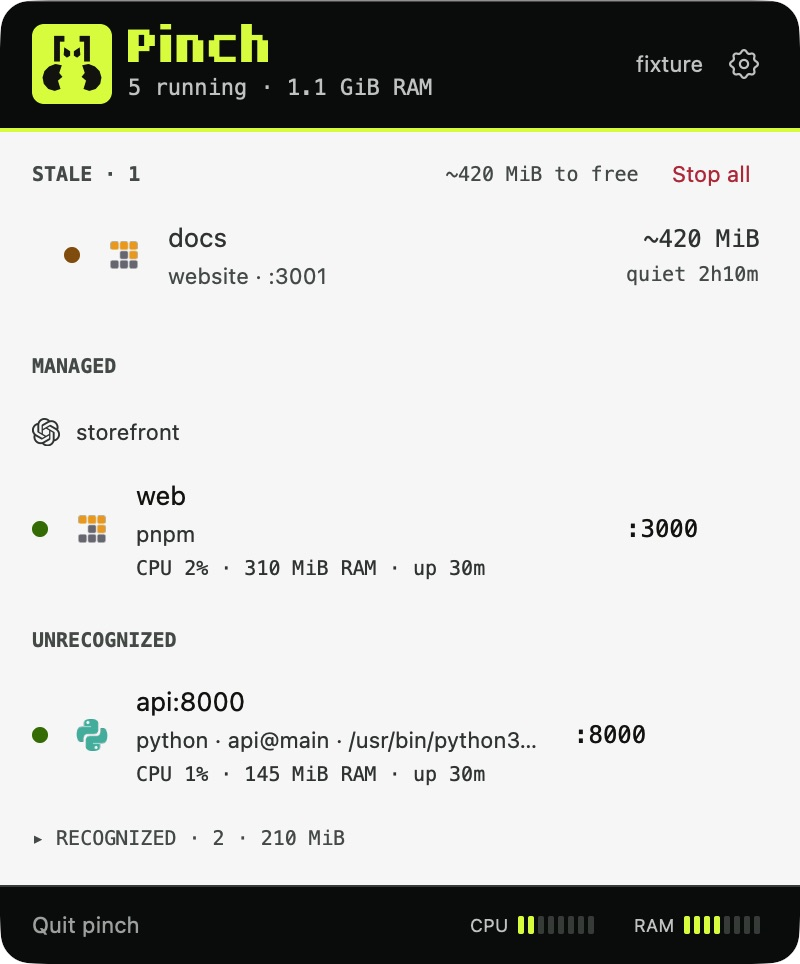
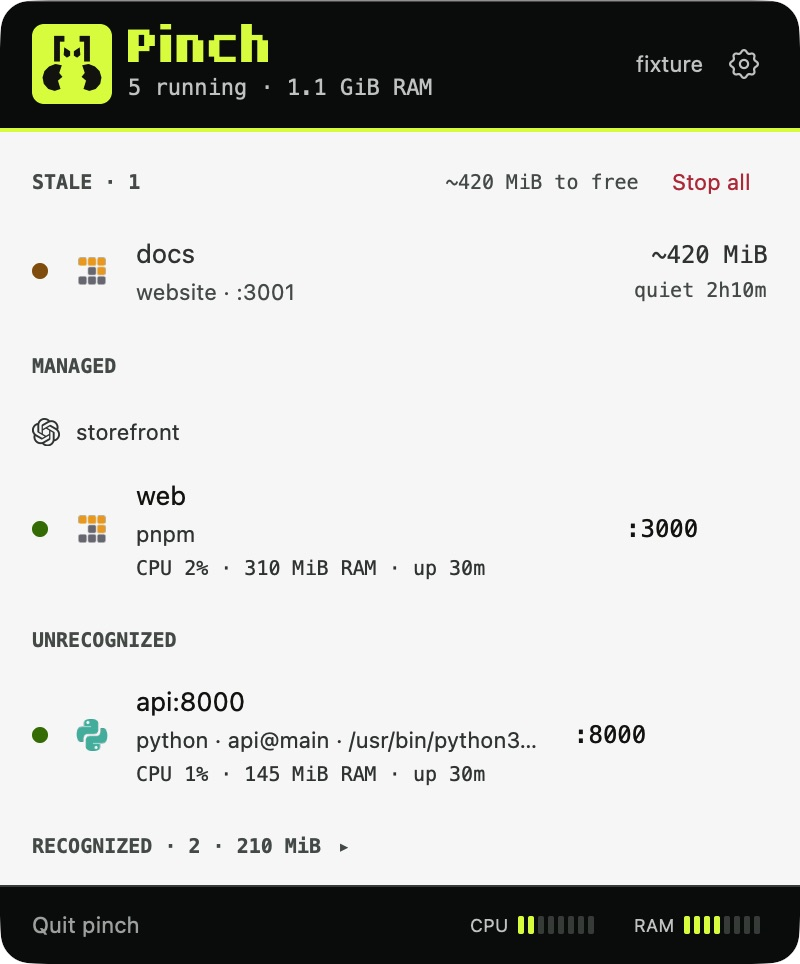
fix: align process groups consistently

diff --git a/crates/ui/src/view.rs b/crates/ui/src/view.rs
@@ -567,6 +567,8 @@ impl Popover {
             .then(|| format!("~{} to free", bytes(list.stale_ram())));
         let stop = div()
             .id("stop-stale")
+            .font_family(".SystemUIFont")
+            .font_weight(FontWeight::NORMAL)
             .px_2()
             .py_1()
             .rounded_md()
@@ -583,28 +585,18 @@ impl Popover {
                     }))
             });
         div()
-            .mt_2()
-            .mb_2()
             .child(
-                div()
-                    .px_4()
+                section_label(format!("STALE · {}", list.stale.len()), theme)
                     .flex()
                     .items_center()
                     .gap_2()
-                    .child(
-                        div()
-                            .flex_1()
-                            .font_family(MONO)
-                            .text_size(px(10.0))
-                            .font_weight(FontWeight::SEMIBOLD)
-                            .text_color(theme.faint)
-                            .child(format!("STALE · {}", list.stale.len())),
-                    )
+                    .child(div().flex_1())
                     .when_some(summary, |header, summary| {
                         header.child(
                             div()
                                 .font_family(MONO)
                                 .text_size(px(10.0))
+                                .font_weight(FontWeight::NORMAL)
                                 .text_color(theme.faint)
                                 .child(summary),
                         )
@@ -634,8 +626,7 @@ impl Popover {
                     .unwrap_or_default();
                 div()
                     .id(SharedString::from(format!("stale-{}", process.id.0)))
-                    .ml_6()
-                    .mr_3()
+                    .mx_2()
                     .px_2()
                     .py_2()
                     .rounded_md()
@@ -1113,28 +1104,24 @@ impl Popover {
                 .map(|m| m.rss_bytes)
                 .sum();
             body = body.child(
-                div()
-                    .id("recognized-toggle")
-                    .px_4()
-                    .py_2()
-                    .cursor_pointer()
-                    .font_family(MONO)
-                    .text_size(px(10.0))
-                    .text_color(theme.faint)
-                    .child(format!(
-                        "{} RECOGNIZED · {} · {}",
-                        if self.recognized_open { "▾" } else { "▸" },
-                        list.recognized.len(),
-                        bytes(ram)
-                    ))
-                    .on_click(cx.listener(|this, _: &ClickEvent, window, cx| {
-                        this.recognized_open = !this.recognized_open;
-                        window.resize(size(
-                            px(WIDTH),
-                            px(list_height(&this.snapshot, this.recognized_open)),
-                        ));
-                        cx.notify();
-                    })),
+                section_label(
+                    format!("RECOGNIZED · {} · {}", list.recognized.len(), bytes(ram)),
+                    theme,
+                )
+                .id("recognized-toggle")
+                .cursor_pointer()
+                .flex()
+                .items_center()
+                .gap_2()
+                .child(if self.recognized_open { "▾" } else { "▸" })
+                .on_click(cx.listener(|this, _: &ClickEvent, window, cx| {
+                    this.recognized_open = !this.recognized_open;
+                    window.resize(size(
+                        px(WIDTH),
+                        px(list_height(&this.snapshot, this.recognized_open)),
+                    ));
+                    cx.notify();
+                })),
             );
             if self.recognized_open {
                 for &(i, p) in &list.recognized {
@@ -1659,7 +1646,7 @@ impl Render for AgentGroupDetails {
     }
 }
 
-fn section_label(text: impl Into<SharedString>, theme: Theme) -> impl IntoElement {
+fn section_label(text: impl Into<SharedString>, theme: Theme) -> gpui::Div {
     div()
         .font_family(MONO)
         .px_4()
